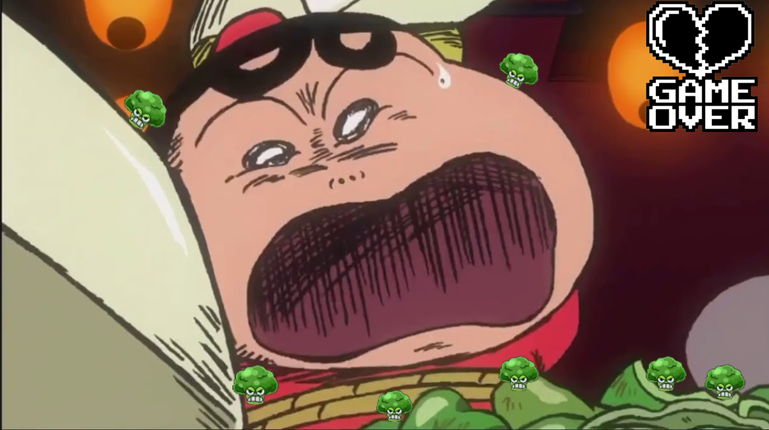
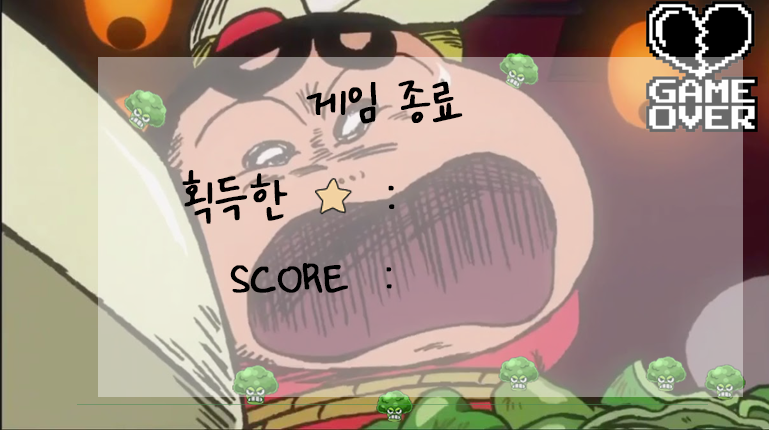
점수가 나와용

diff --git a/src/Frames/GameOver.java b/src/Frames/GameOver.java
@@ -1,4 +1,5 @@
 package Frames;
+
 import java.awt.BorderLayout;
 import java.awt.EventQueue;
 import java.awt.Image;
@@ -11,15 +12,19 @@ import javax.swing.JFrame;
 import javax.swing.JLabel;
 import javax.swing.JPanel;
 import javax.swing.border.EmptyBorder;
+
+import Frames.showGame;
+
 import javax.swing.JButton;
+import java.awt.Font;
 
 public class GameOver extends JFrame {
 
 	ClassLoader classLoader = getClass().getClassLoader();
 	Toolkit kit = Toolkit.getDefaultToolkit();
 	Image gameover = kit.getImage(classLoader.getResource("GameOver.png"));
-	Image retry = kit.getImage(classLoader.getResource("retry.png"));
 	private JPanel contentPane;
+	showGame sg;
 
 	/**
 	 * Launch the application.
@@ -28,7 +33,7 @@ public class GameOver extends JFrame {
 		EventQueue.invokeLater(new Runnable() {
 			public void run() {
 				try {
-					GameOver frame = new GameOver();
+					GameOver frame = new GameOver(null);
 					frame.setVisible(true);
 				} catch (Exception e) {
 					e.printStackTrace();
@@ -39,8 +44,11 @@ public class GameOver extends JFrame {
 
 	/**
 	 * Create the frame.
+	 * 
+	 * @param showGame
 	 */
-	public GameOver() {
+	public GameOver(showGame showGame) {
+		sg = showGame;
 		setDefaultCloseOperation(JFrame.EXIT_ON_CLOSE);
 		setBounds(100, 100, 769, 482);
 		contentPane = new JPanel();
@@ -53,22 +61,21 @@ public class GameOver extends JFrame {
 		contentPane.add(panel, BorderLayout.CENTER);
 		panel.setLayout(null);
 
-		JLabel lblNewLabel = new JLabel(" ");
-		lblNewLabel.setBounds(-26, -28, 769, 493);
-		lblNewLabel.setIcon(new ImageIcon(gameover));
-		panel.add(lblNewLabel);
+		JLabel scoreResult = new JLabel("" + sg.getScoreResult());
+		scoreResult.setFont(new Font("맑은 고딕", Font.BOLD, 29));
+		scoreResult.setBounds(390, 252, 171, 61);
+		panel.add(scoreResult);
 
-		JButton btnNewButton = new JButton(" ");
-		btnNewButton.setBounds(532, 340, 185, 66);
-		btnNewButton.setIcon(new ImageIcon(retry));
-		btnNewButton.addActionListener(new ActionListener() {
+		JLabel starScore = new JLabel("" + sg.getStarScore());
+		starScore.setFont(new Font("맑은 고딕", Font.BOLD, 29));
+		starScore.setBounds(390, 170, 171, 61);
+		panel.add(starScore);
 
-			@Override
-			public void actionPerformed(ActionEvent e) {
-				dispose();
-			}
-		});
-		panel.add(btnNewButton);
+		JLabel backgroundIm = new JLabel(" ");
+		backgroundIm.setFont(new Font("맑은 고딕", Font.BOLD, 29));
+		backgroundIm.setBounds(-26, -28, 769, 493);
+		backgroundIm.setIcon(new ImageIcon(gameover));
+		panel.add(backgroundIm);
 
 	}
 }

diff --git a/src/Frames/showGame.java b/src/Frames/showGame.java
@@ -42,8 +42,8 @@ public class showGame extends JFrame {
 	private JLabel scoreImg;
 	private JLabel characterImg;
 	private Timer scoreTimer; // 점수 타이머
-	int scoreResult = 0;
-	int starScore = 0;
+	int scoreResult;
+	int starScore;
 	private JLabel lblMoney;
 	private JLabel lblScore;
 	private Timer backTimer; // 배경 타이머
@@ -54,6 +54,14 @@ public class showGame extends JFrame {
 	private Timer huddleTimer;
 	private Timer starTimer;
 	private Timer downTimer;
+
+	public int getScoreResult() {
+		return scoreResult;
+	}
+
+	public int getStarScore() {
+		return starScore;
+	}
 
 	public static void main(String[] args) {
 		EventQueue.invokeLater(new Runnable() {
@@ -124,6 +132,8 @@ public class showGame extends JFrame {
 								starTimer.stop();
 								backTimer.stop();
 								scoreTimer.stop();
+								GameOver game = new GameOver(showGame.this);
+								game.setVisible(true);
 							}
 						}
 					}

diff --git a/src/Test.java b/src/Test.java
@@ -1,0 +1,36 @@
+class Person {
+	private String name;
+	private int age;
+	public Person(String name, int age) {
+		super();
+		this.name = name;
+		this.age = age;
+	}
+	public Person() {
+		// TODO Auto-generated constructor stub
+	}
+	public String getName() {
+		return name;
+	}
+	public void setName(String name) {
+		this.name = name;
+	}
+	public int getAge() {
+		return age;
+	}
+	public void setAge(int age) {
+		this.age = age;
+	}
+	
+	
+}
+
+public class Test {
+	public static void main(String[] args) {
+		String ref = new String("asdf");
+		Person p = new Person(ref, 22);
+		
+		Person p2 =  new Person();
+		
+	}
+}

diff --git a/src/Frames/Menu.java b/src/Frames/Menu.java
@@ -102,8 +102,8 @@ public class Menu extends JFrame {
 			@Override
 			public void actionPerformed(ActionEvent e) {
 				new MyRoom(logIn).showGUI();
-				//dispose();
-				
+				// dispose();
+
 			}
 		});
 		contentPane.add(btn_MyRoom);
